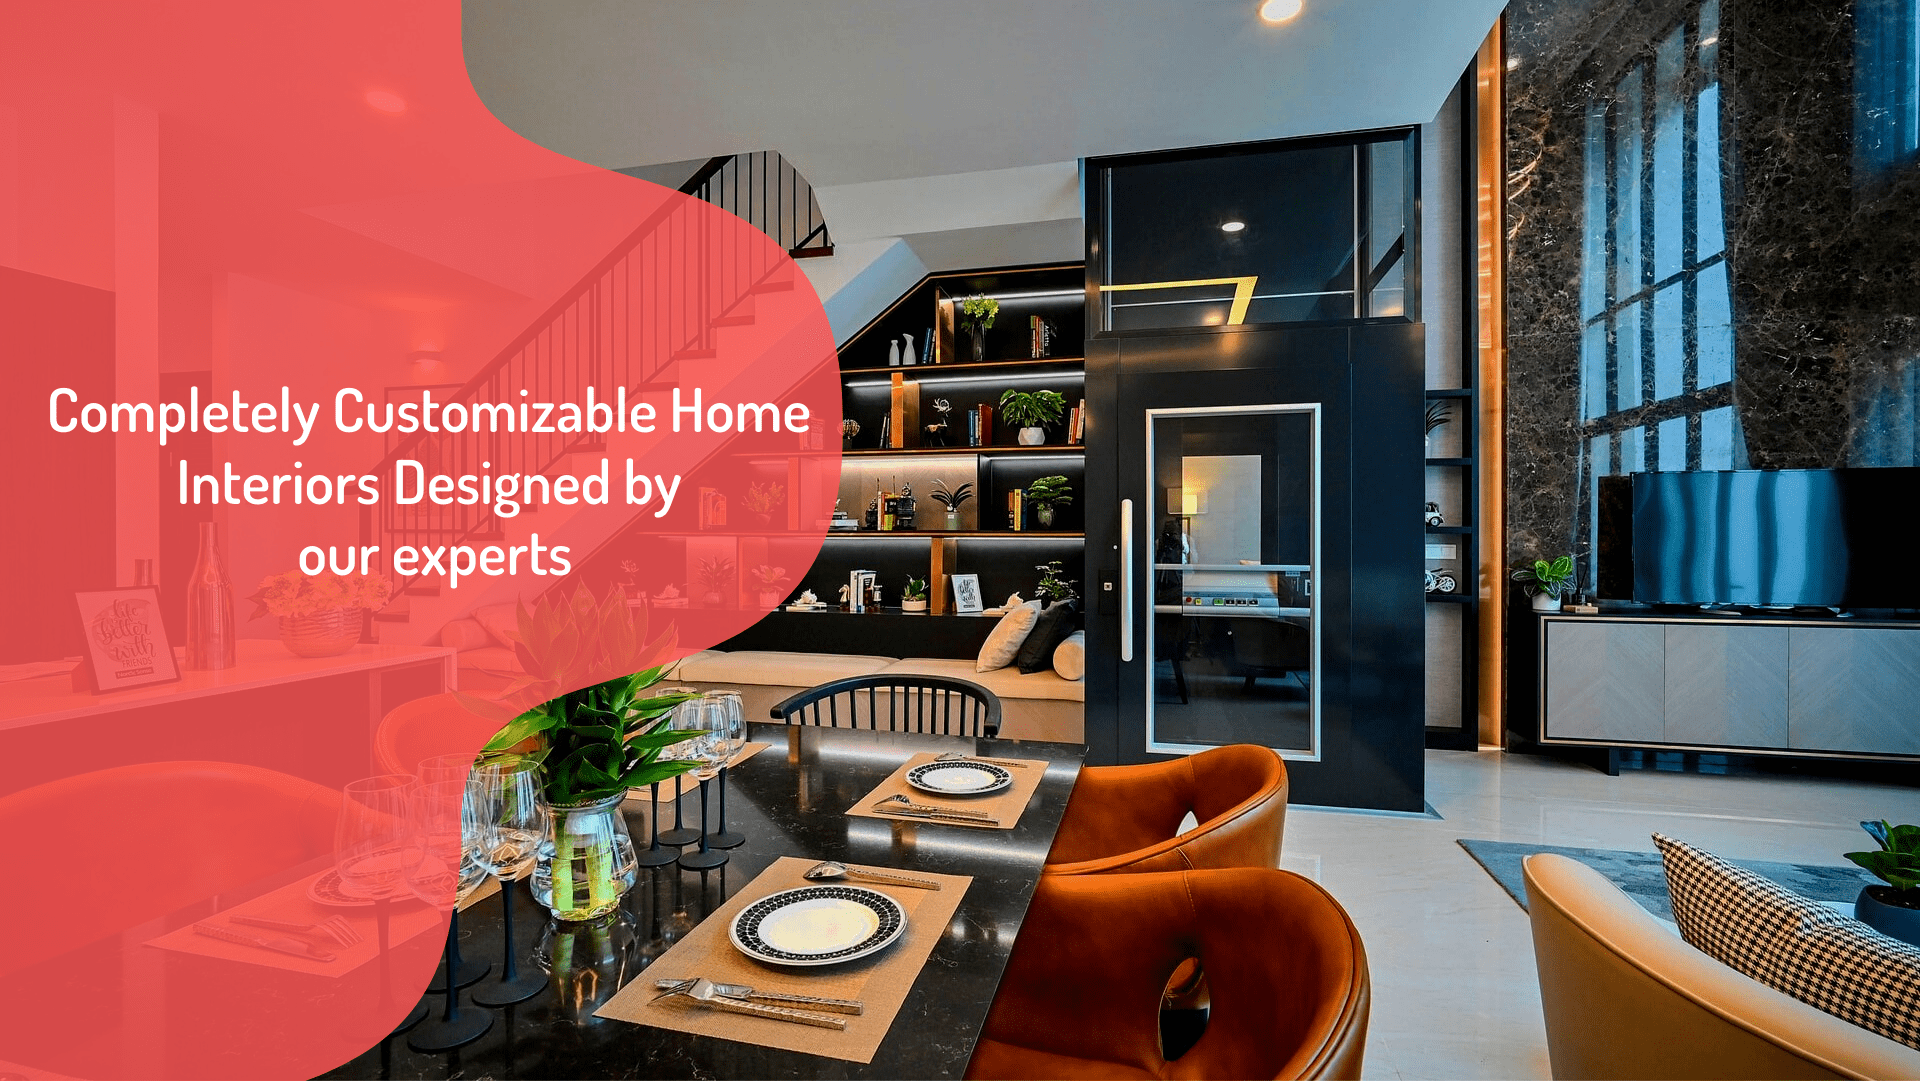
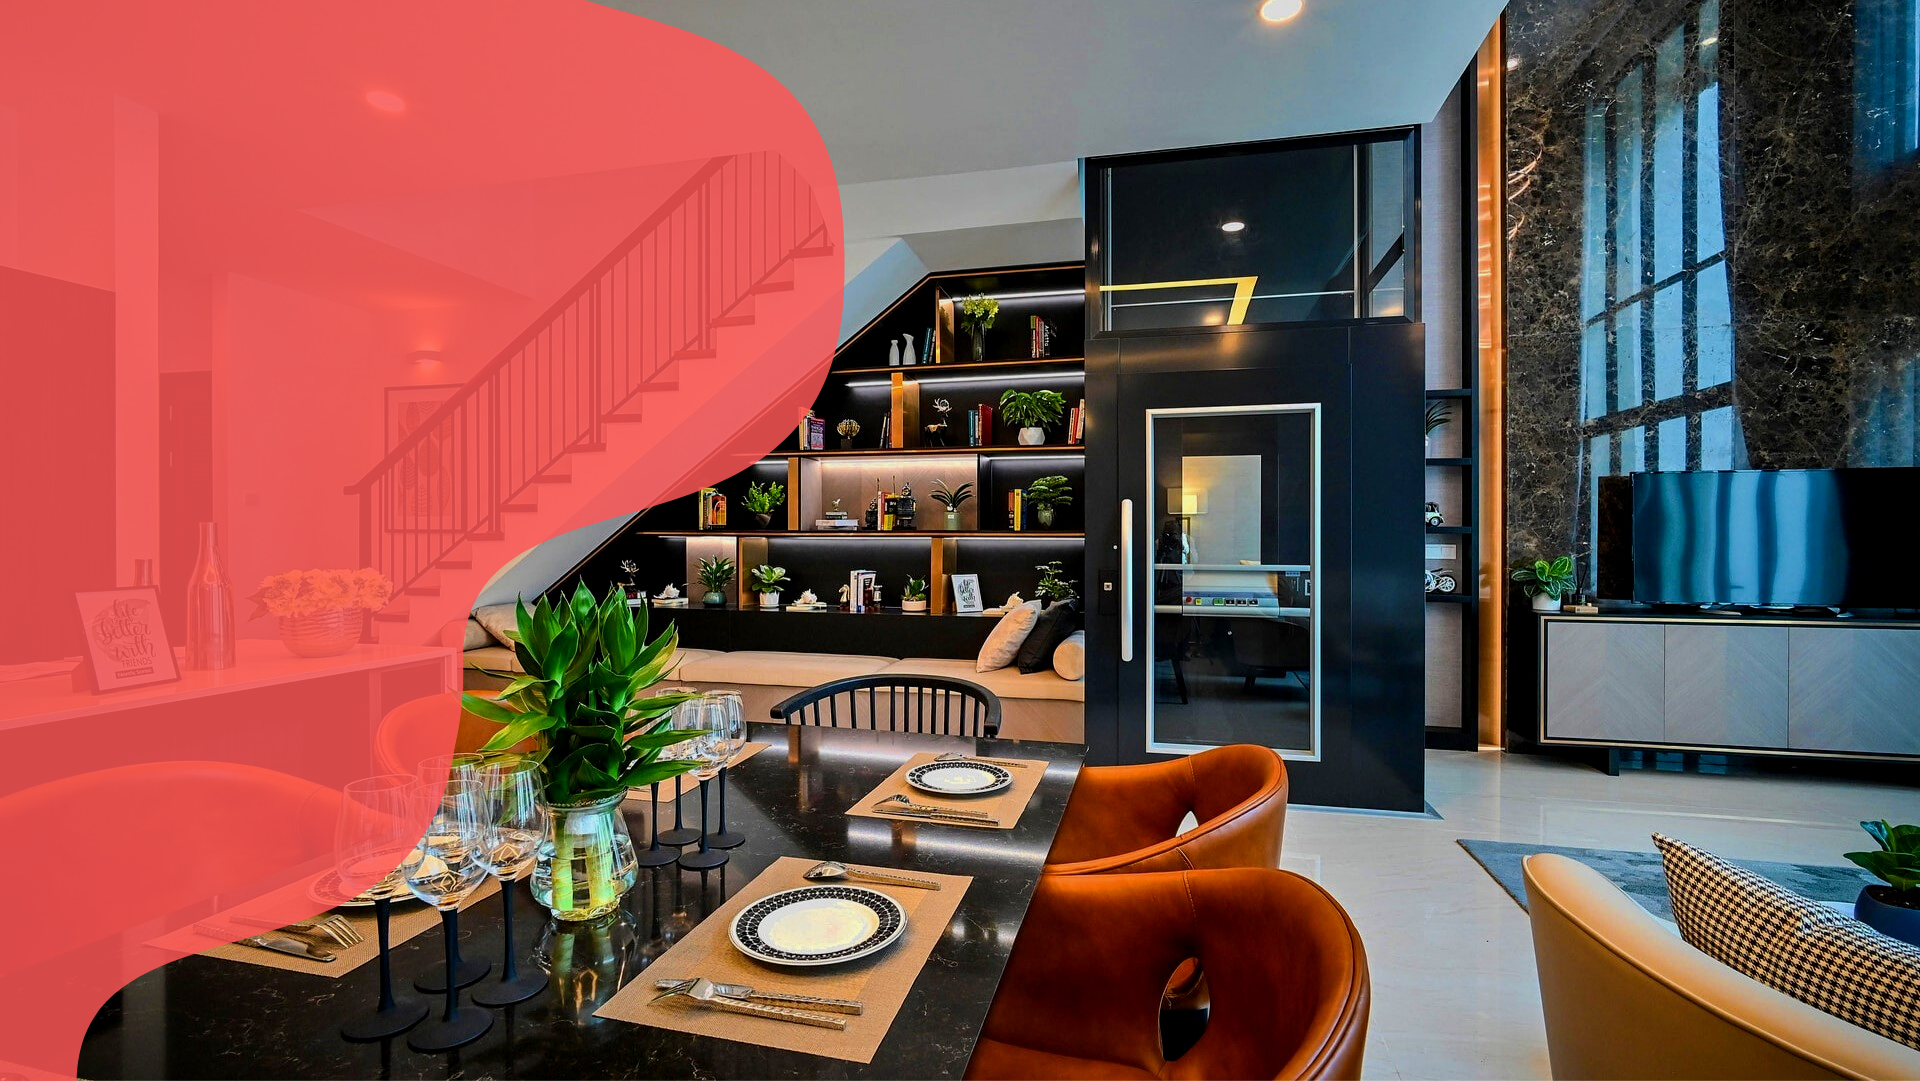
opulence 2

Changed region(s): [[0.0, 0.3358, 0.4375, 1.0], [0.2188, 0.0, 0.4375, 0.3053], [0.2812, 0.7937, 0.3125, 0.8548]]

diff --git a/index.html b/index.html
@@ -46,9 +46,27 @@
 
     <section class="background firstSection">
       <div class="box-main">
-        <div class="firstHalf"></div>
+        <div class="firstHalf">
+          <section class="text-gray-600 body-font">
+            <div class="container px-5 py-24 mx-auto flex flex-wrap">
+              <h2 class="heading">Completely Customizable Home Interiors<br>Designed by Our Experts.</h2>
+              
+            </div>
+
+          </section>
+        </div>
         <div class="secondHalf"></div>
       </div>
+    </section>
+    
+    <section>
+      <link rel="stylesheet" href="stylee.css">
+      <body>
+        <div class="typetext">
+          <p>Looking For <span class="typed-text"></span><span class="cursor">&nbsp;</span></p>
+        </div>
+        <script src="main.js"></script>
+      </body>
     </section>
 
     <section class="secRight">
@@ -67,16 +85,7 @@
             </h1>
             <p class="mb-8 leading-relaxed"></p>
             <div class="flex justify-center">
-              <button
-                class="inline-flex text-white bg-yellow-500 border-0 py-2 px-6 focus:outline-none hover:bg-yellow-600 rounded text-lg"
-              >
-                Button
-              </button>
-              <button
-                class="ml-4 inline-flex text-gray-700 bg-gray-100 border-0 py-2 px-6 focus:outline-none hover:bg-gray-200 rounded text-lg"
-              >
-                Button
-              </button>
+              
             </div>
           </div>
           <div class="lg:max-w-lg lg:w-full md:w-1/2 w-5/6">
@@ -89,7 +98,7 @@
         </div>
       </section>
     </section>
-
+ 
     <section>
       <section class="text-gray-600 body-font">
         <div class="container px-5 py-24 mx-auto flex flex-wrap">
@@ -308,17 +317,7 @@
                   taxidermy. Gastropub indxgo juice poutine, ramps microdosing
                   banh mi pug VHS try-hard.
                 </p>
-                <a class="mt-3 text-indigo-500 inline-flex items-center"
-                  >Learn More
-                  <svg
-                    fill="none"
-                    stroke="currentColor"
-                    stroke-linecap="round"
-                    stroke-linejoin="round"
-                    stroke-width="2"
-                    class="w-4 h-4 ml-2"
-                    viewBox="0 0 24 24"
-                  >
+                
                     <path d="M5 12h14M12 5l7 7-7 7"></path>
                   </svg>
                 </a>
@@ -353,20 +352,7 @@
                   taxidermy. Gastropub indxgo juice poutine, ramps microdosing
                   banh mi pug VHS try-hard.
                 </p>
-                <a class="mt-3 text-indigo-500 inline-flex items-center"
-                  >Learn More
-                  <svg
-                    fill="none"
-                    stroke="currentColor"
-                    stroke-linecap="round"
-                    stroke-linejoin="round"
-                    stroke-width="2"
-                    class="w-4 h-4 ml-2"
-                    viewBox="0 0 24 24"
-                  >
-                    <path d="M5 12h14M12 5l7 7-7 7"></path>
-                  </svg>
-                </a>
+                
               </div>
             </div>
             <div class="p-4 md:w-1/3 flex flex-col text-center items-center">
@@ -395,28 +381,14 @@
                   taxidermy. Gastropub indxgo juice poutine, ramps microdosing
                   banh mi pug VHS try-hard.
                 </p>
-                <a class="mt-3 text-indigo-500 inline-flex items-center"
-                  >Learn More
-                  <svg
-                    fill="none"
-                    stroke="currentColor"
-                    stroke-linecap="round"
-                    stroke-linejoin="round"
-                    stroke-width="2"
-                    class="w-4 h-4 ml-2"
-                    viewBox="0 0 24 24"
-                  >
+                
                     <path d="M5 12h14M12 5l7 7-7 7"></path>
                   </svg>
                 </a>
               </div>
             </div>
           </div>
-          <button
-            class="flex mx-auto mt-16 text-white bg-indigo-500 border-0 py-2 px-8 focus:outline-none hover:bg-indigo-600 rounded text-lg"
-          >
-            Button
-          </button>
+          
         </div>
       </section>
     </section>
@@ -425,13 +397,12 @@
         <div class="container px-5 py-24 mx-auto">
           <div class="flex flex-col text-center w-full mb-12">
             <h1
-              class="sm:text-3xl text-2xl font-medium title-font mb-4 text-gray-900"
+              class="sm:text-3xl text-2xl font-medium title-font mb-4 text-gray-900" id="Contact us"
             >
               Contact Us
             </h1>
             <p class="lg:w-2/3 mx-auto leading-relaxed text-base">
-              Whatever cardigan tote bag tumblr hexagon brooklyn asymmetrical
-              gentrify.
+              Because Some Calls Change The Way You Live!
             </p>
           </div>
           <div class="lg:w-1/2 md:w-2/3 mx-auto">
@@ -577,5 +548,20 @@
         </div>
       </footer>
     </section>
+    <div class="popup center">
+      <div class="icon">
+        <i class="fa fa-check"></i>
+      </div>
+      <div class="title">
+        Success!!
+      </div>
+      <div class="description">
+        We Recieved your Message!. We'll Contact you soon... 
+      </div>
+      <div class="dismiss-btn">
+        <button>Dismiss
+        </button>
+      </div>
+    </div>
   </body>
 </html>

diff --git a/main.js b/main.js
@@ -1,0 +1,43 @@
+const typedTextSpan = document.querySelector(".typed-text");
+const cursorSpan = document.querySelector(".cursor");
+
+const textArray = ["Interior Designers?", "Exterior Designers?", "Rennovation? Opulence Got you Covered!"];
+const typingDelay = 40;
+const erasingDelay = 40;
+const newTextDelay = 2500;
+let textArrayIndex = 0;
+let charIndex = 0;
+
+function type() {
+    if(charIndex < textArray[textArrayIndex].length) {
+        if(!cursorSpan.classList.contains("typing")) cursorSpan.classList.add("typing");
+        typedTextSpan.textContent += textArray[textArrayIndex].charAt(charIndex);
+        charIndex++;
+        setTimeout(type, typingDelay);
+    }
+    else {
+        cursorSpan.classList.remove("typing");
+        setTimeout(erase, newTextDelay);
+    }
+}
+
+function erase() {
+    if(charIndex > 0) {
+        if(!cursorSpan.classList.contains("typing")) cursorSpan.classList.add("typing");
+        typedTextSpan.textContent = textArray[textArrayIndex].substring(0,charIndex-1);
+        charIndex--;
+        setTimeout(erase, erasingDelay);
+    }
+    else {
+        cursorSpan.classList.remove("typing");
+        textArrayIndex++;
+        if(textArrayIndex>=textArray.length) textArrayIndex=0;
+        setTimeout(type, typingDelay + 1100);
+    }
+}
+
+
+document.addEventListener("DOMContentLoaded", function() {
+    if(textArray.length) setTimeout(type, newTextDelay + 250);
+}); 
+

diff --git a/stylee.css b/stylee.css
@@ -1,0 +1,53 @@
+@import url('https://fonts.googleapis.com/css2?family=Dosis:wght@500&display=swap');
+* {
+    margin: 0;
+    padding: 0;
+    box-sizing: border-box;
+}
+
+body {
+    font-family: 'Dosis', sans-serif;
+}
+
+.typetext {
+    height: 20vh;
+    display: flex;
+    justify-content: center;
+    align-items: center;
+
+}
+
+.typetext p {
+    font-size: 2.5rem;
+    letter-spacing: 0.01rem;
+    text-align: center;
+    overflow: hidden;
+    padding: 0.5rem;
+}
+
+.typed-text {
+    font-size: 3rem;
+    letter-spacing: 0.01rem;
+    text-align: center;
+    color: crimson;
+
+}
+.cursor {
+    display: inline-block;
+    width: 3px;
+    background-color: black;
+    margin-left: 0.1rem;
+    animation: blink 0.7s infinite;
+}
+
+.cursor.typing {
+    animation: none;
+}
+
+@keyframes blink {
+    0% { background-color: black;}
+    40% { background-color: black;}
+    50% {background-color: transparent;}
+    70% {background-color: transparent;}
+    100% {background-color: black;}
+}

diff --git a/css/style.css b/css/style.css
@@ -1,3 +1,8 @@
+@import url('https://fonts.googleapis.com/css2?family=Dosis:wght@500&display=swap');
+@import url('https://fonts.googleapis.com/css2?family=Yusei+Magic&display=swap');
+
+
+
 * {
     margin: 0;
     padding: 0;
@@ -44,9 +49,8 @@
   .nav-list li a {
     text-decoration: none;
     color: black;
-    font-family: -apple-system, BlinkMacSystemFont, "Segoe UI", Roboto, Oxygen,
-      Ubuntu, Cantarell, "Open Sans", "Helvetica Neue", sans-serif;
-    font-size: 15px;
+    font-family: 'Dosis', sans-serif;
+    font-size: 18px;
   }
   
   .nav-list li a:hover {
@@ -90,4 +94,14 @@
   
   .body {
     background-color: bisque;
+  }
+
+  .contactus {
+    font-family: 'Dosis', sans-serif;
+  }
+
+  .heading {
+    font-family: 'Yusei Magic', sans-serif;
+    font-size: 2rem;
+    color: rgb(252, 252, 252);
   }

diff --git a/contact.html b/contact.html
@@ -22,7 +22,7 @@
         </ul>
       </nav>
 
-      <section class="text-gray-600 body-font relative">
+      <section class="contactus">
         <div class="container px-5 py-24 mx-auto">
           <div class="flex flex-col text-center w-full mb-12">
             <h1 class="sm:text-3xl text-2xl font-medium title-font mb-4 text-gray-900">Contact Us</h1>

diff --git a/index.php b/index.php
@@ -4,7 +4,9 @@ include_once("index.html");
 include_once("interior.html");
 include_once("exterior.html");
 include_once("contact.html");
-include_once("style.css")
+include_once("style.css");
+include_once("stylee.css");
+include_once("main.js");
 
 
 ?>
